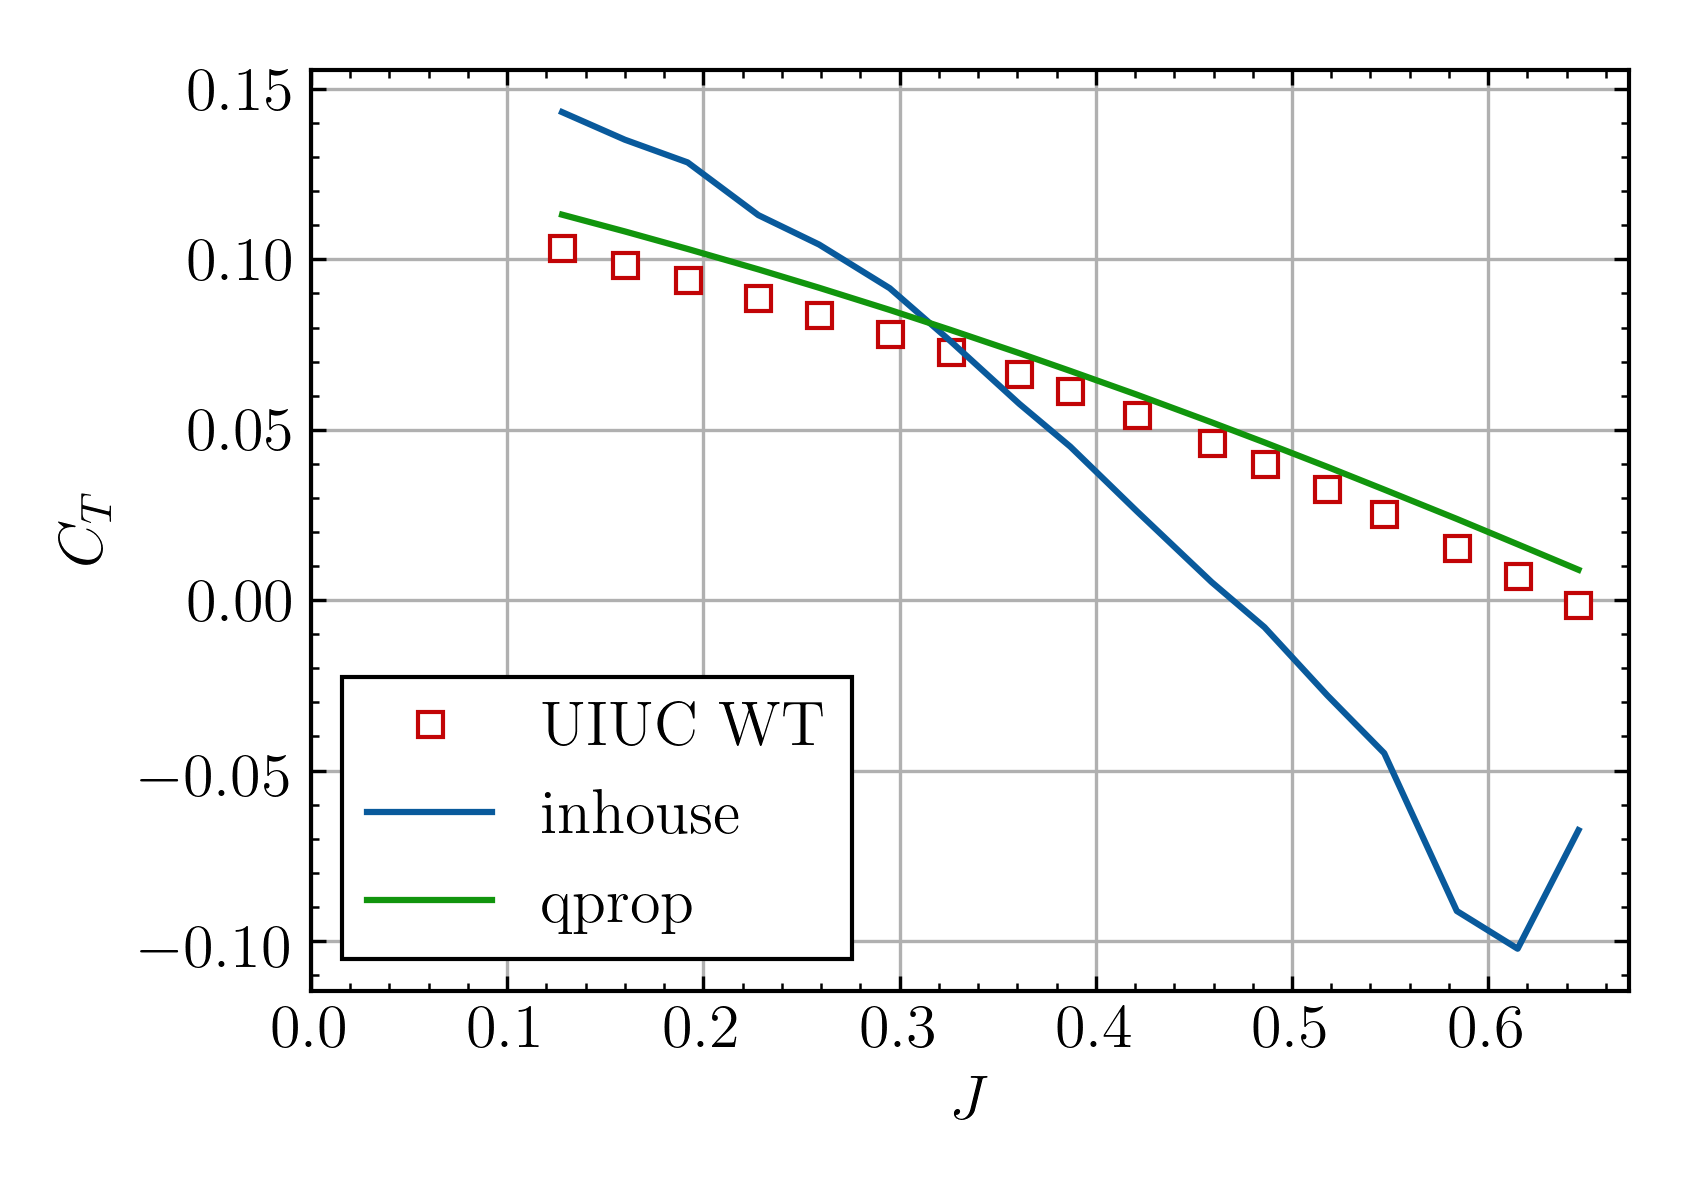
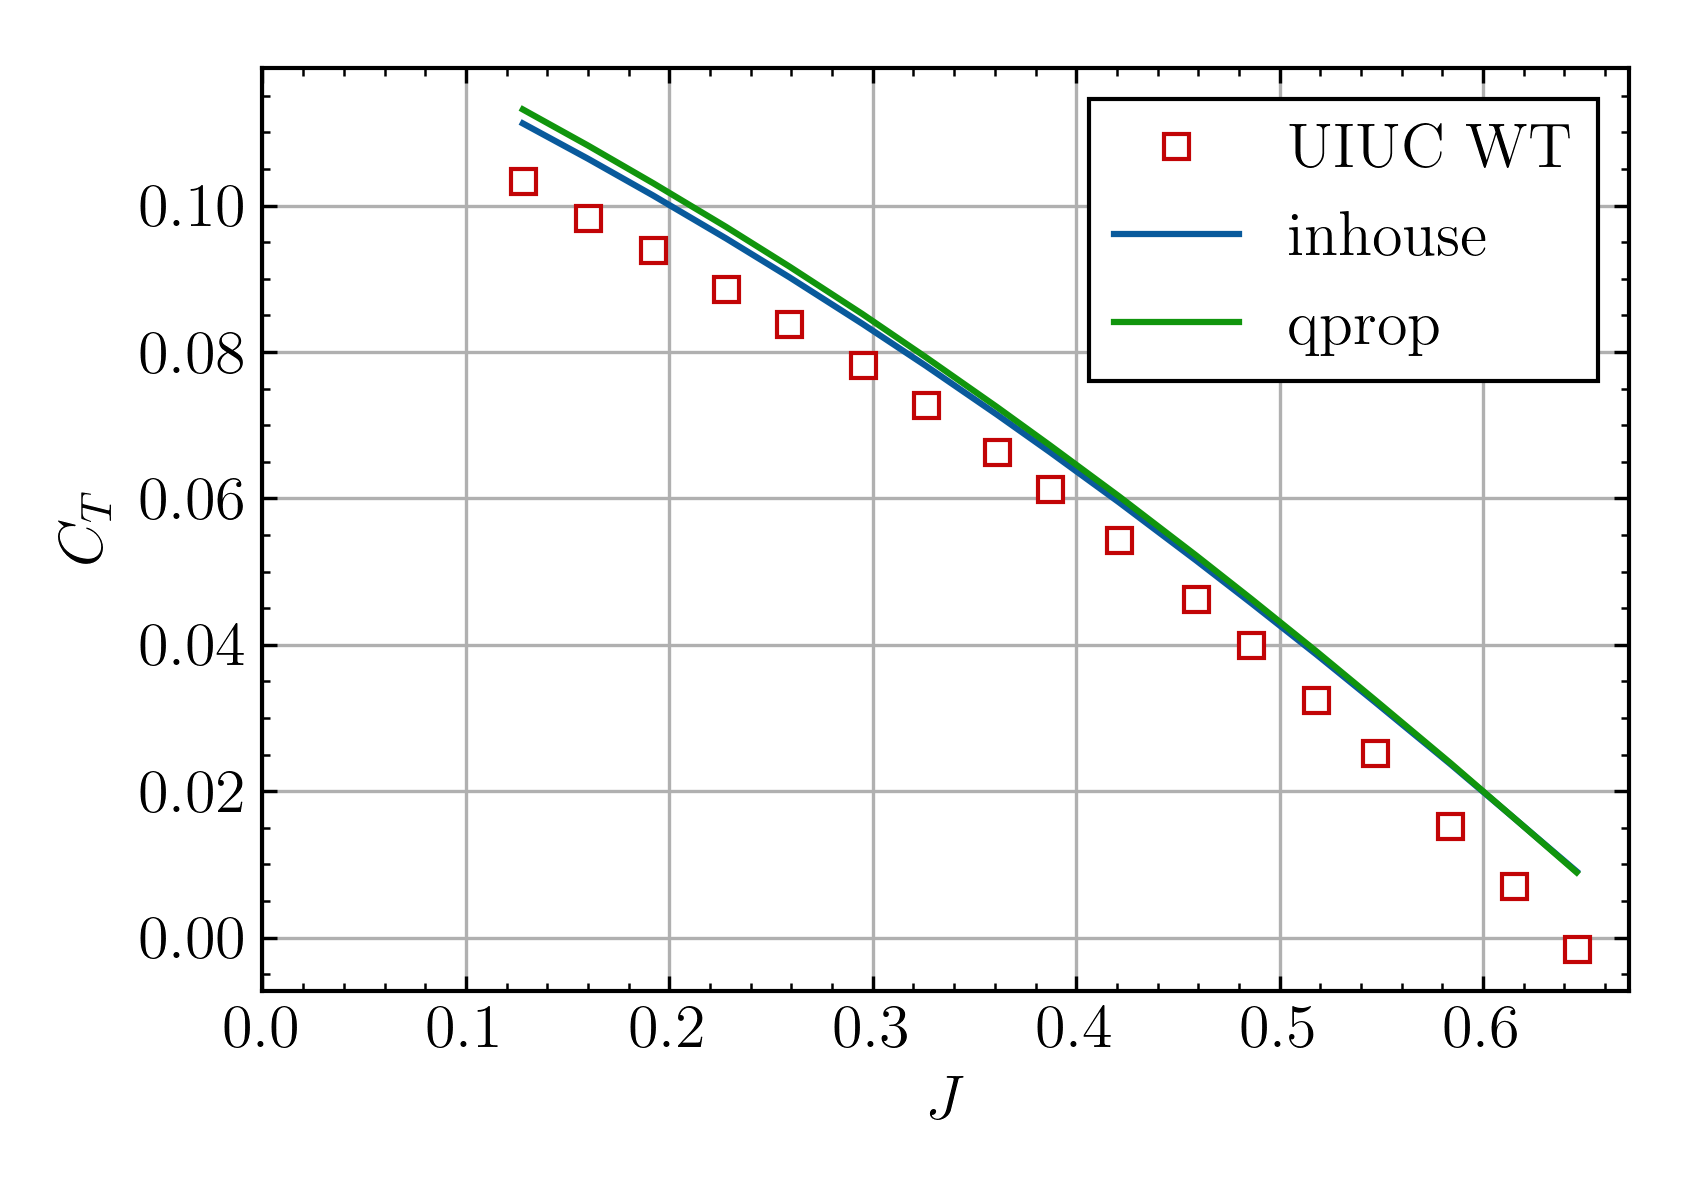
finaly moved correctly, and Cd-r same with qprop, still Cp differnt OMG

diff --git a/ANALYSIS/perform_analysis_refactor.py b/ANALYSIS/perform_analysis_refactor.py
@@ -158,7 +158,7 @@ class HFprop:
         self.vt = self.Ut - self.Wt
         self.aoa = self.beta - np.degrees(np.arctan(self.Wa / self.Wt))
         self.W = np.sqrt(self.Wa**2 + self.Wt**2)
-        self.cl[i] = np.interp(self.aoa[i], self.alpha, self.cl_alpha) / np.sqrt(1-(self.W[i]/340)**2)
+        self.cl[i] = (dclda*math.radians(self.aoa[i]) + cl0) / np.sqrt(1-(self.W[i]/340)**2)
         # ここから違う
         stall = False
         if (self.cl[i] < cl_min):
@@ -177,7 +177,7 @@ class HFprop:
         self.cd[i] = (cd0 + cd2*(self.cl[i]-clcd0)**2) * (Reynolds/ReynoldsEff)**REexp
         if (stall):
             acd0 = (clcd0-cl0)/dclda
-            dcd = 2.0*math.sin(self.aoa[i]-acd0)**2
+            dcd = 2.0*math.sin(math.radians((self.aoa[i]))-acd0)**2
             self.cd[i] = self.cd[i] + dcd
         # ここまで違う
         self.lamda = self.r / self.R * self.Wa / self.Wt
@@ -251,22 +251,31 @@ r              cl                aoa                Wa              Wt          
 
 
     def plot_results(self):
+        qprop = np.loadtxt('../secret/qprop_validation_advanceV12.txt')
+        qprop_r_R = qprop[:, 0] / self.R
+        qprop_cl = qprop[:, 3]
+        qprop_cd = qprop[:, 4]
+
         plt.plot(self.alpha, self.cl_alpha)
         plt.xlabel('alpha')
         plt.ylabel('cl')
         plt.grid()
         # plot cl
         plt.clf()
-        plt.plot(self.r_R, self.cl)
+        plt.plot(self.r_R, self.cl, label='hfprop')
+        plt.plot(qprop_r_R, qprop_cl, label='qprop')
         plt.xlabel('r/R')
         plt.ylabel('Cl')
+        plt.legend()
         plt.grid()
         plt.show()
         # plot cd
         plt.clf()
-        plt.plot(self.r_R, self.cd)
+        plt.plot(self.r_R, self.cd, label='hfprop')
+        plt.plot(qprop_r_R, qprop_cd, label='qprop')
         plt.xlabel('r/R')
         plt.ylabel('Cd')
+        plt.legend()
         plt.grid()
         plt.show()
         # plot aoa
